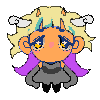
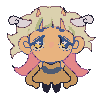
redraw the new images and added a road that i want to constrict the player to walk on

diff --git a/Final.py b/Final.py
@@ -18,6 +18,8 @@ sprite_right = pygame.image.load("images/CharaSideR.png")
 sprite_forward = pygame.image.load("images/CharaFront.png")
 background_object = pygame.image.load("images/buildings.png")
 
+road_image = pygame.image.load("images/road.png")
+
 background_object = pygame.transform.scale(background_object, (WIDTH, HEIGHT))
 
 sprite_rect = sprite_forward.get_rect()  
